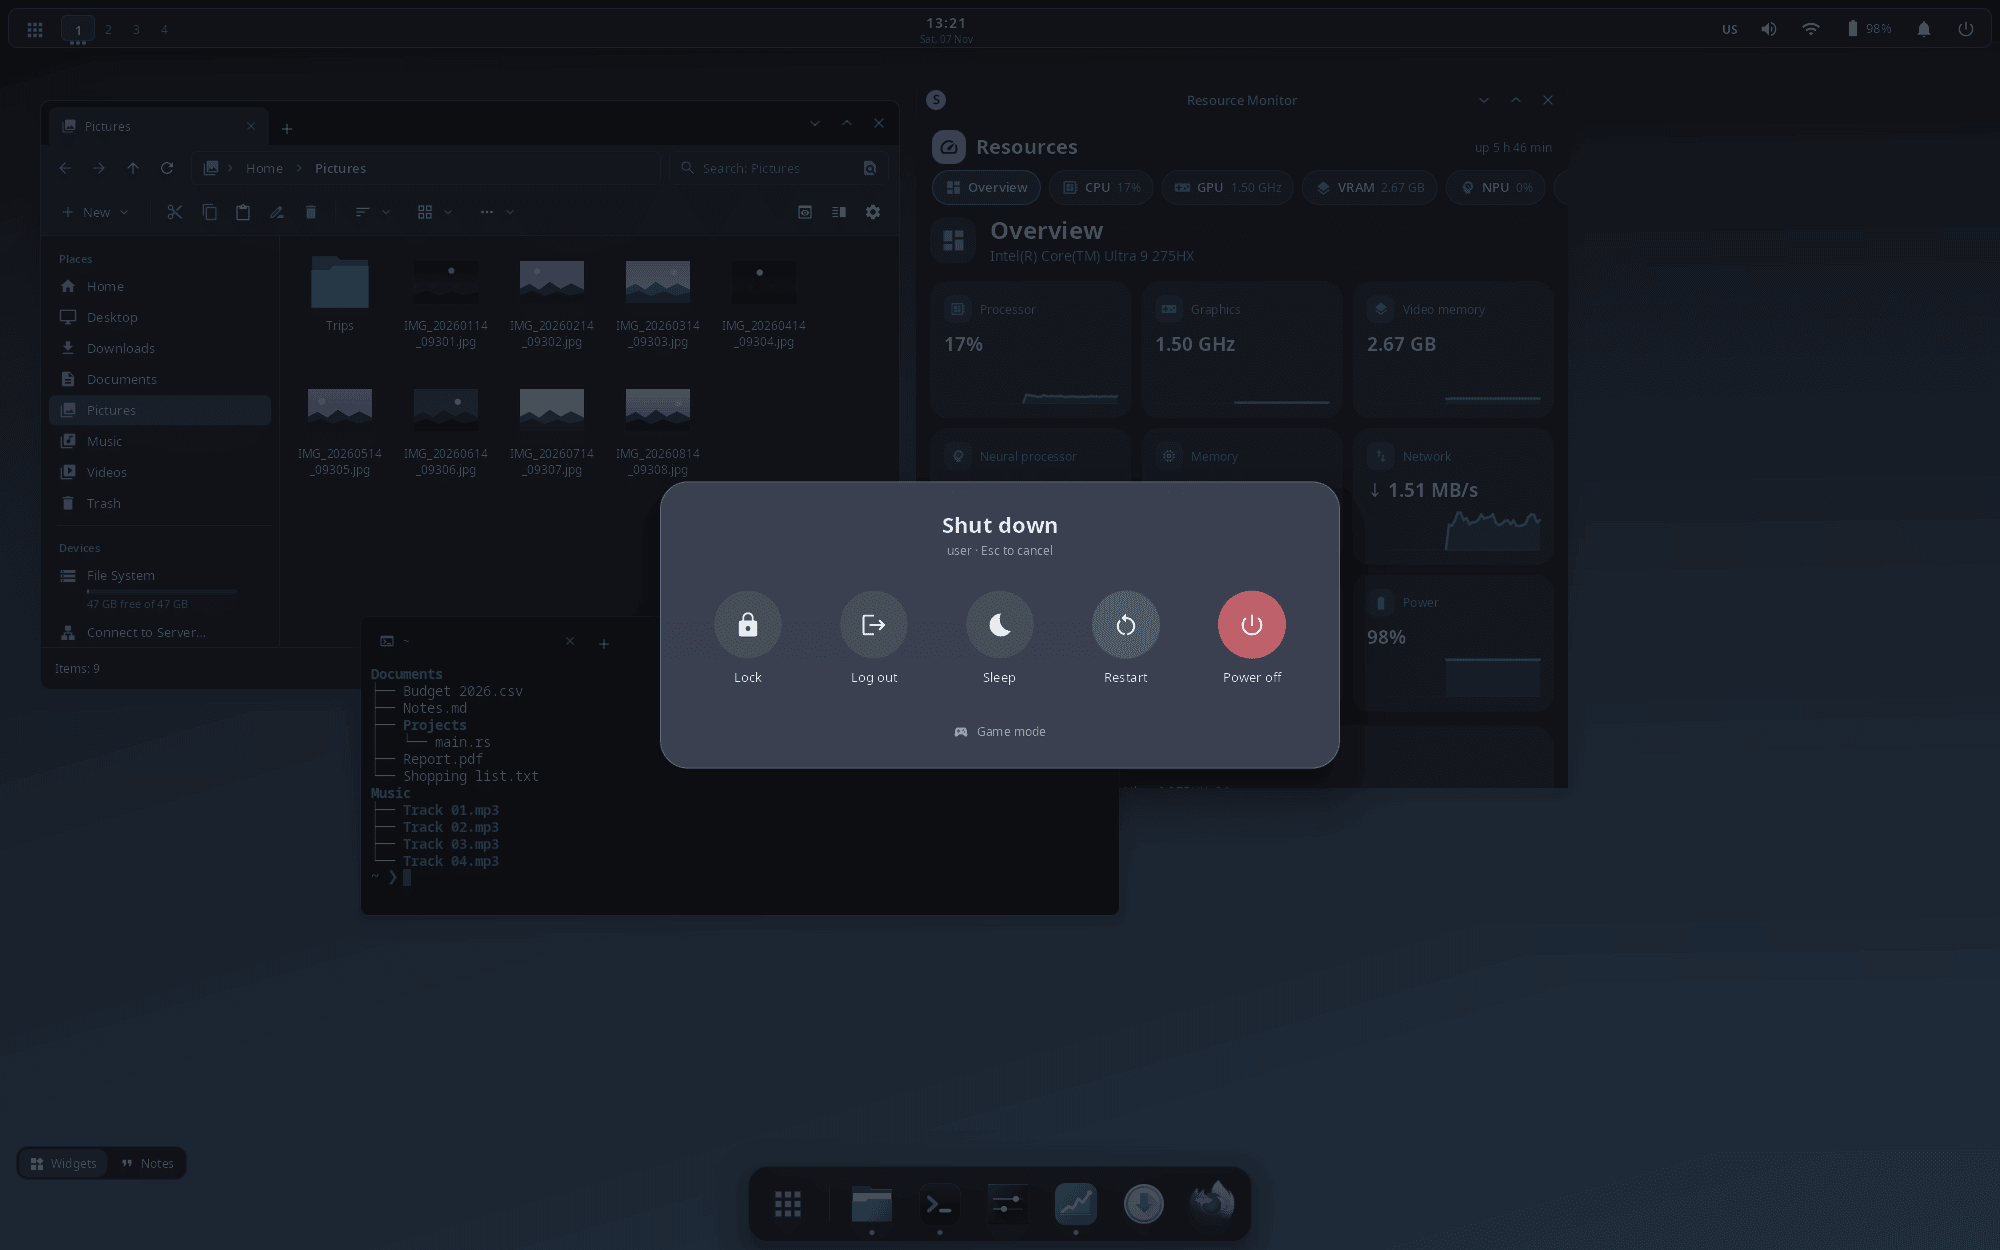
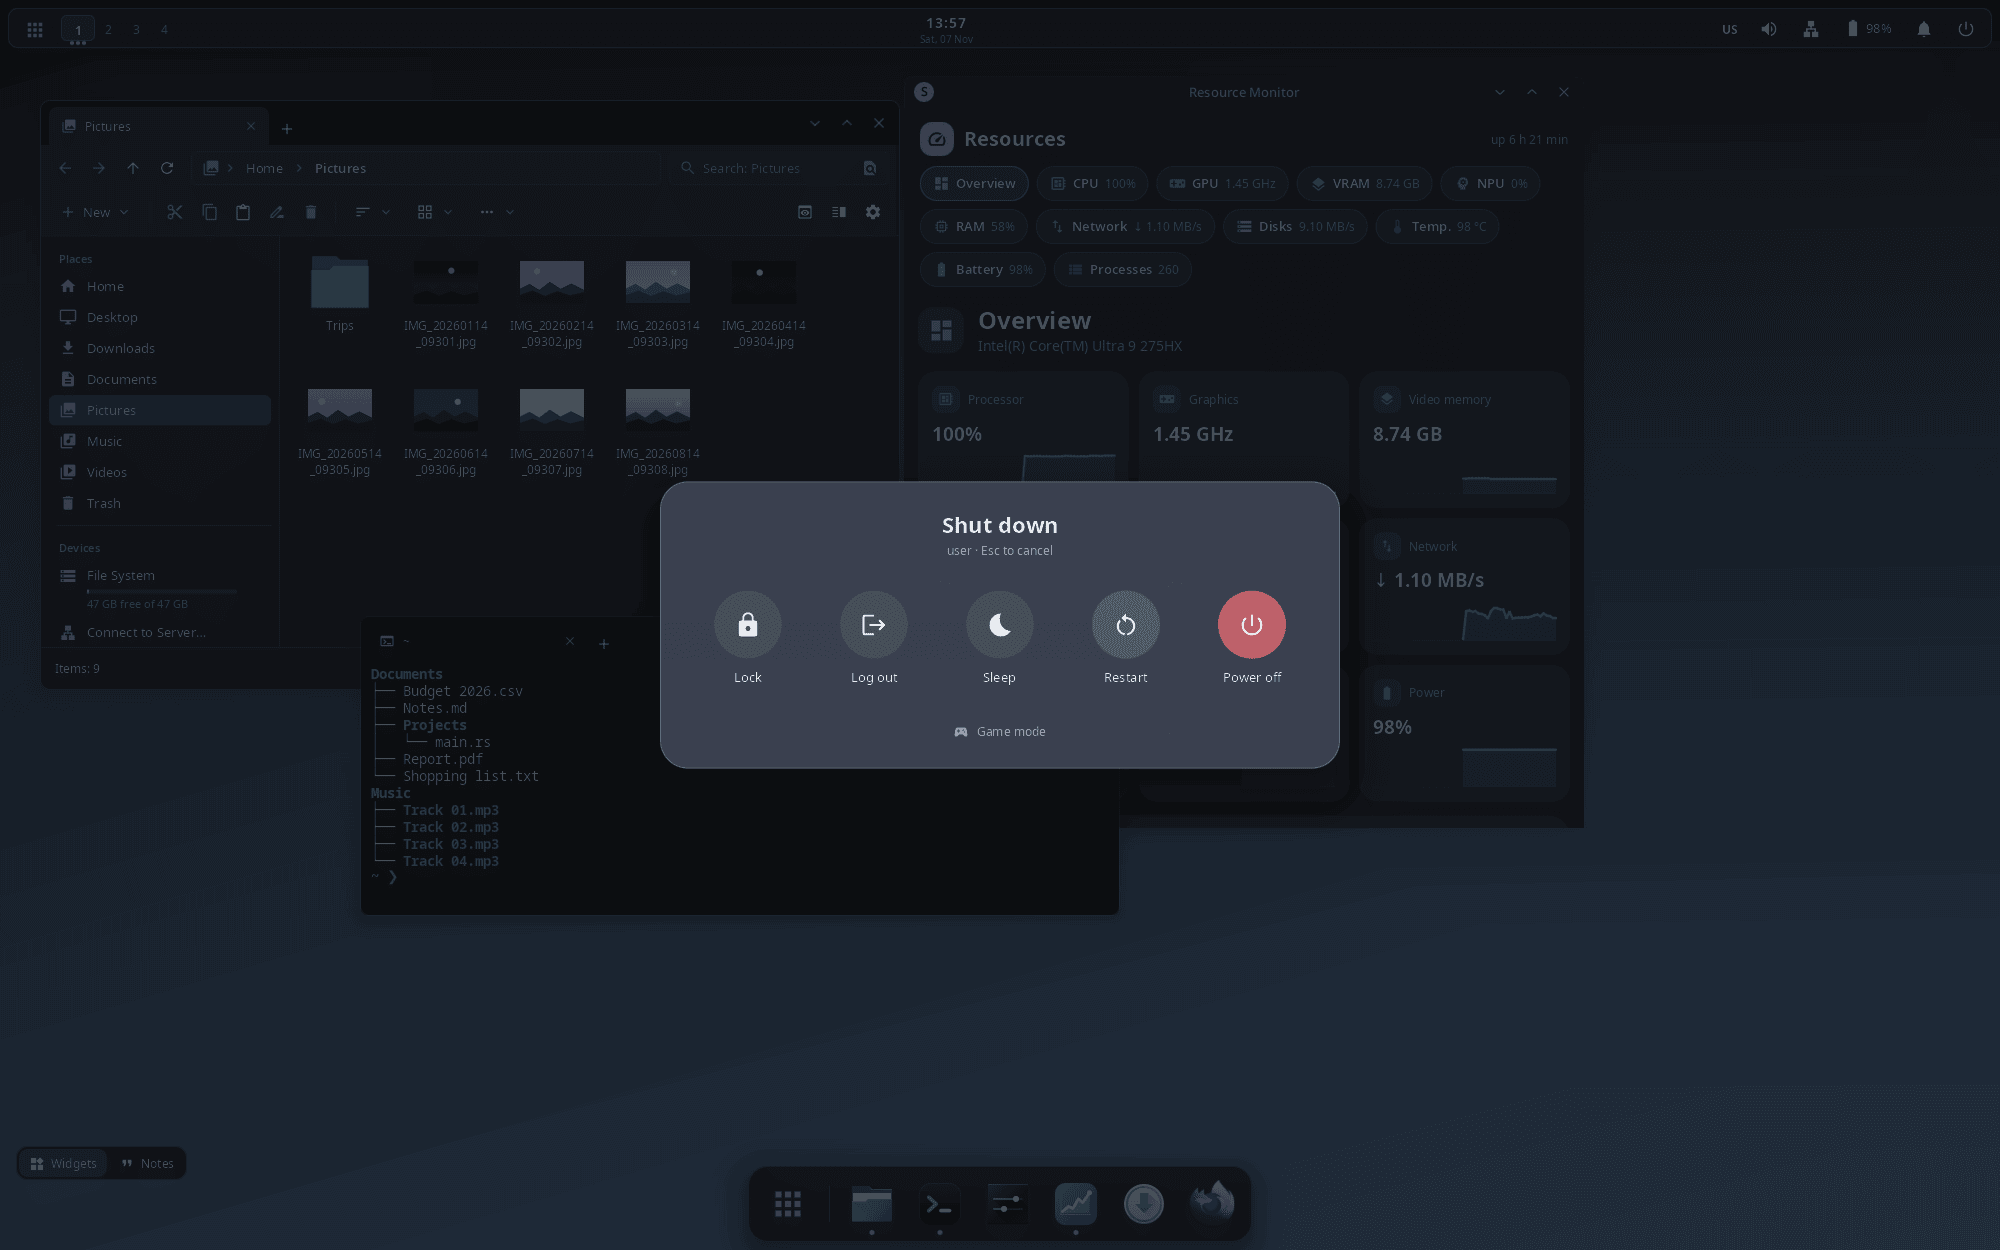
README: раздел «Раскладки» — верхняя панель с доком, классическая панель задач, вертикальная панель (en и ru); Монитор ресурсов переснят со всеми чипами на всех снимках

diff --git a/README.md b/README.md
@@ -74,6 +74,14 @@ documentation in `docs/` is in Russian.
   shell dialog, frames from synwm over `wlr-screencopy` straight into PipeWire buffers by
   `syn-screencast`) for browsers, OBS and other apps.
 
+### Layouts
+
+Panels, the dock and their applets are set up in `config.toml` or with the mouse in edit mode (right-click a panel → Edit): any number of panels on any edge, horizontal or vertical.
+
+| Top panel + dock | Classic taskbar (the default) | Vertical panel |
+|---|---|---|
+| ![Top panel with the clock in the centre and a dock at the bottom](docs/screenshots/desktop.png) | ![Classic taskbar at the bottom: launcher, desktops, window buttons, tray and clock](docs/screenshots/classic.png) | ![Vertical panel on the left: launcher, desktops, pinned applications, tray and clock](docs/screenshots/vertical.png) |
+
 | Launcher | Tile layout |
 |---|---|
 | ![Launcher with pinned applications](docs/screenshots/launcher.png) | ![Tile layout: the file manager, System Settings and the terminal](docs/screenshots/tile.png) |
